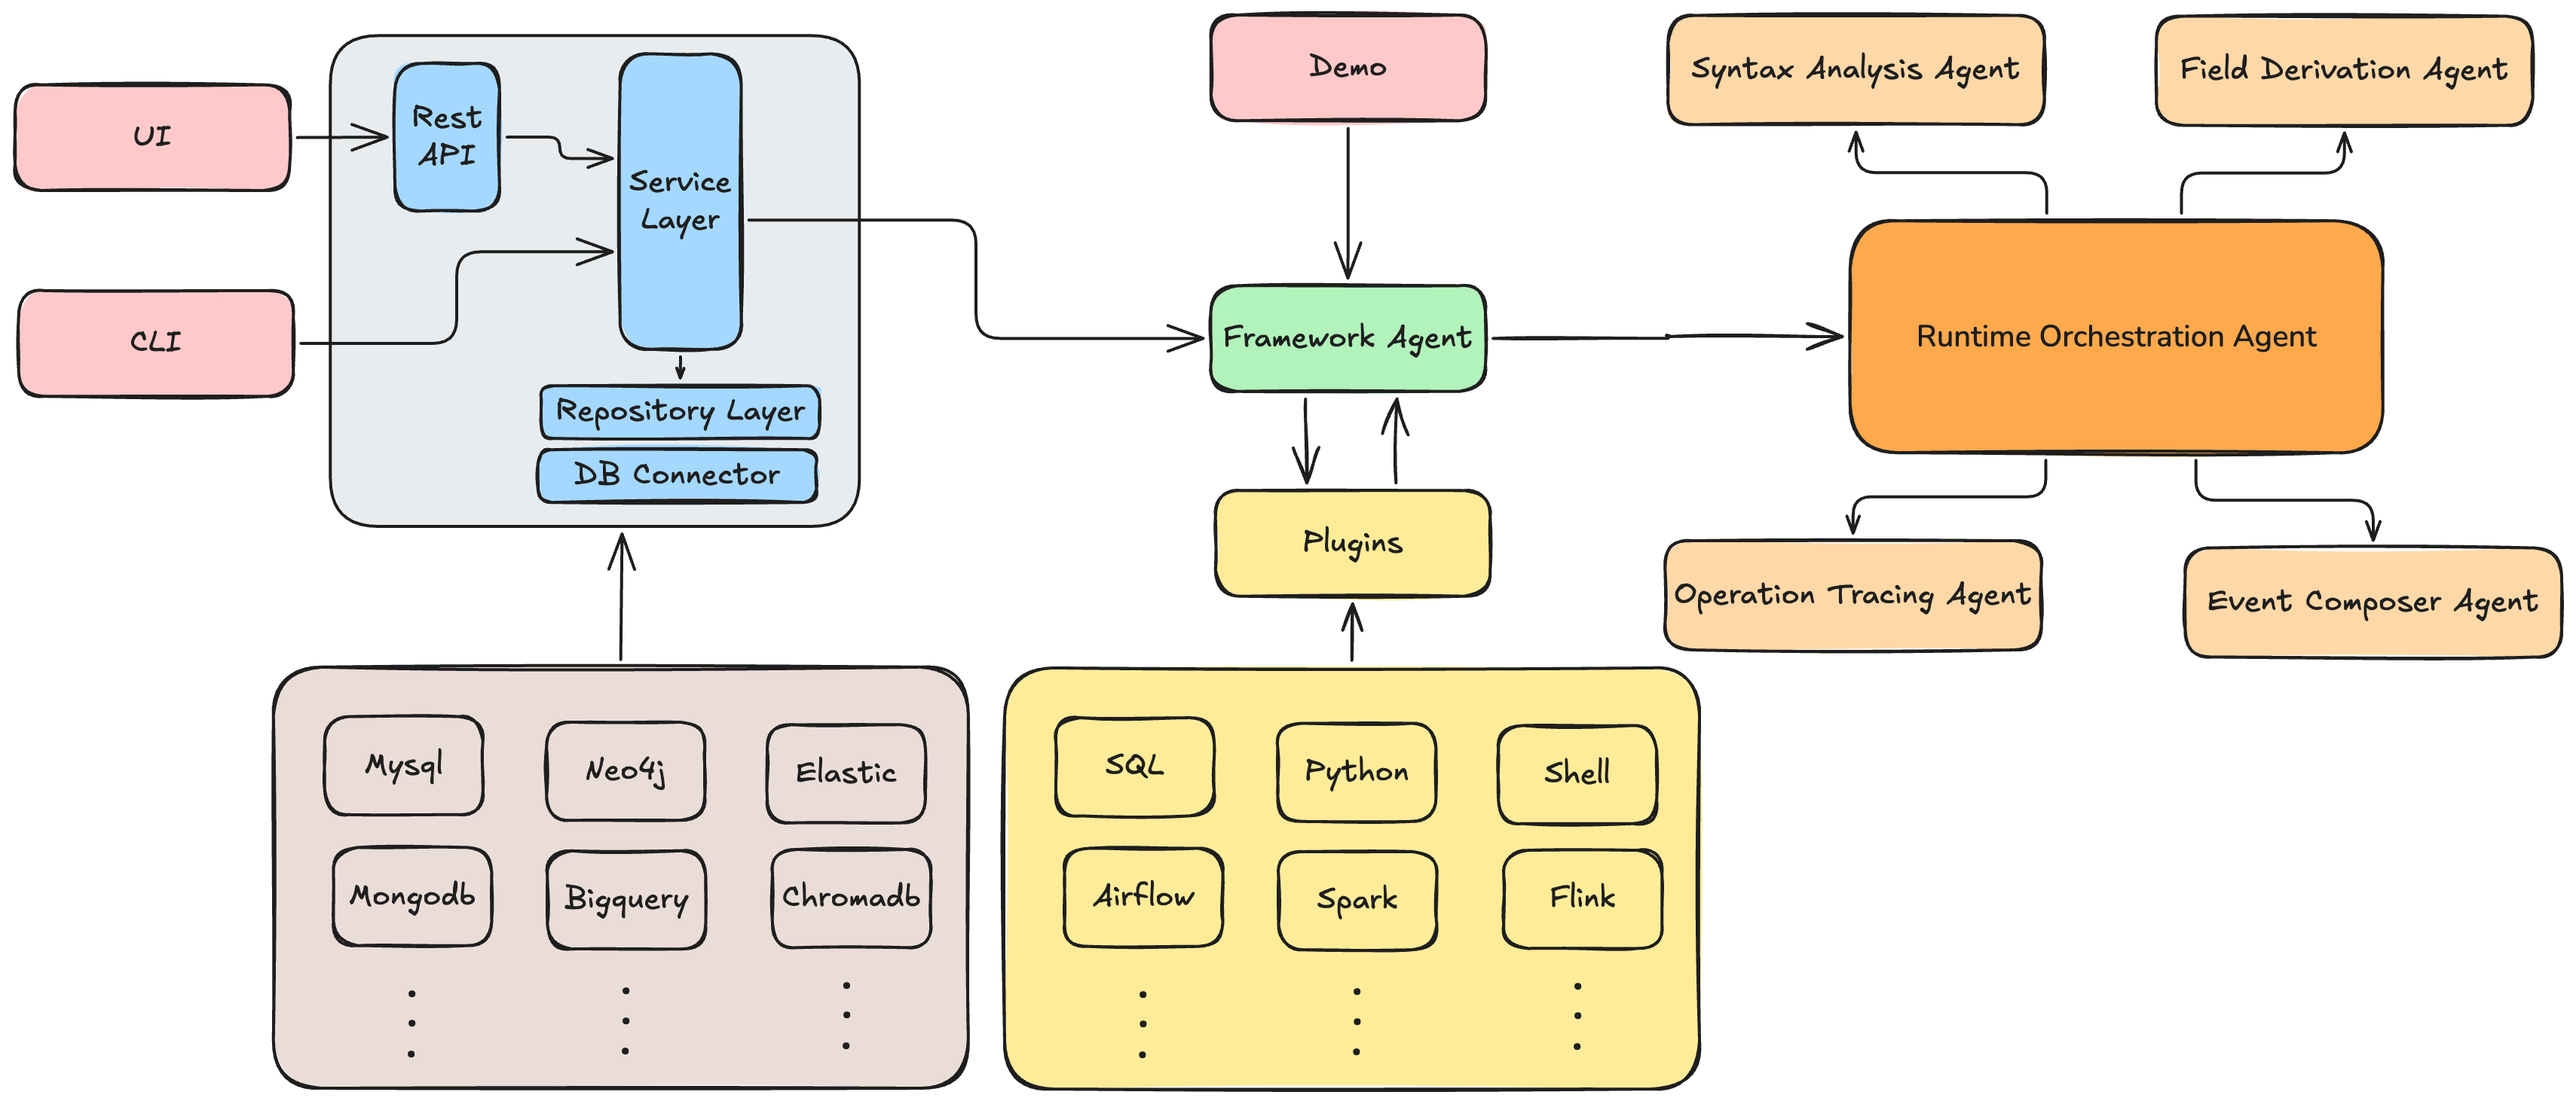
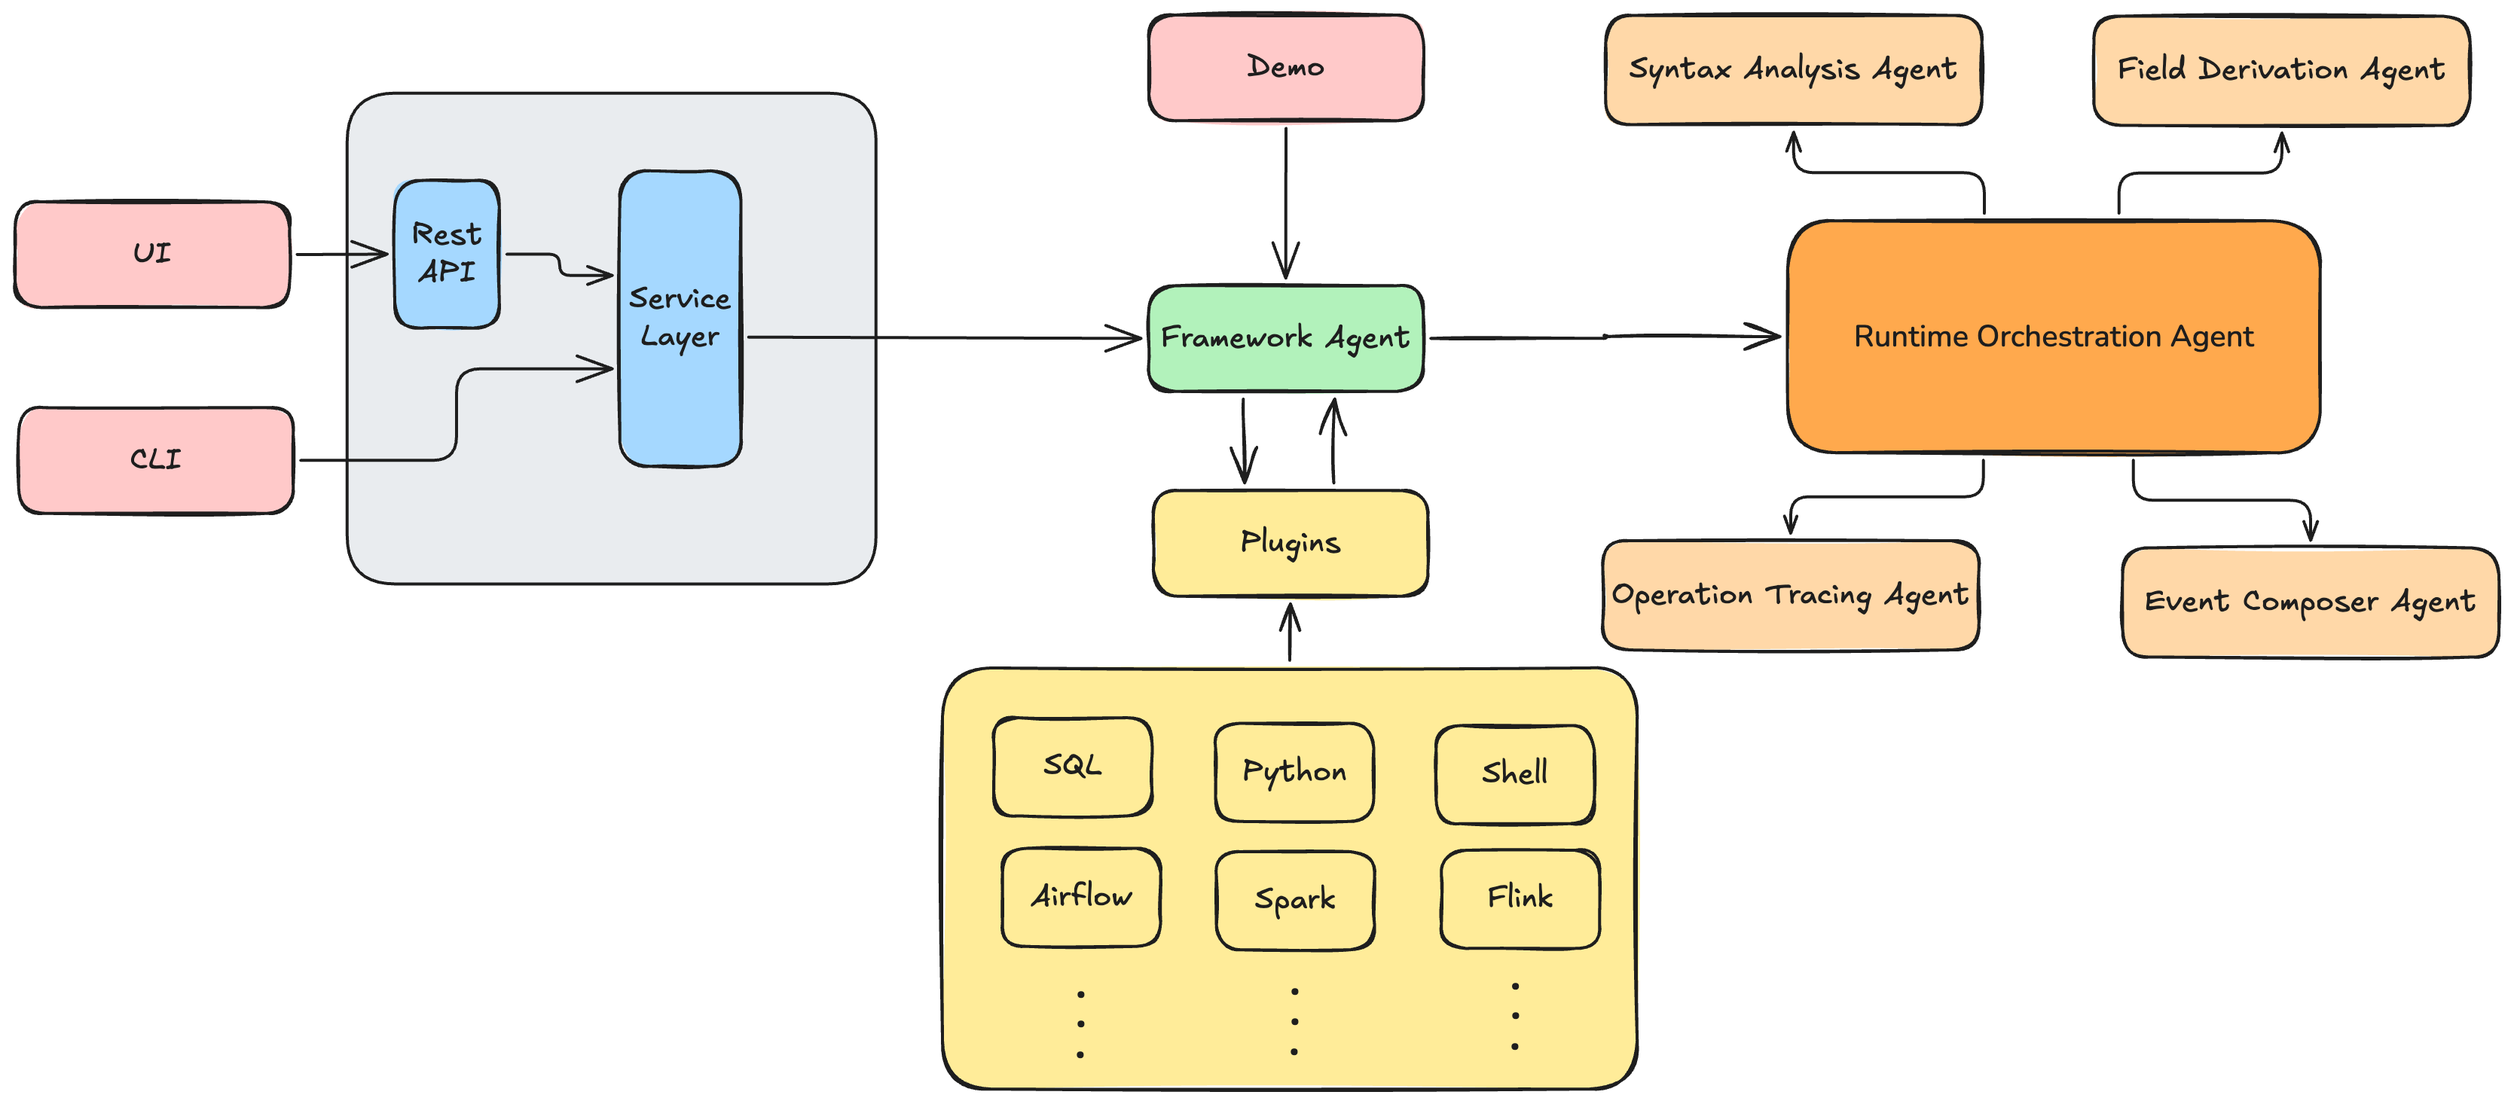
README change

diff --git a/cli/README.md b/cli/README.md
@@ -1,10 +1,10 @@
-# Lineagentic CLI
+# Lineagentic-flow CLI
 
-A command-line interface for the Lineagentic framework that provides agentic data lineage parsing across various data processing script types.
+A command-line interface for the Lineagentic-flow framework that provides agentic data lineage parsing across various data processing script types.
 
 ## Installation
 
-The CLI is automatically installed when you install the lineagentic package:
+The CLI is automatically installed when you install the lineagentic-flow package:
 
 ```bash
 pip install -e .
@@ -21,10 +21,6 @@ The CLI provides two main commands: `analyze` and `field-lineage`.
 lineagentic analyze --agent-name sql-lineage-agent --query "your code here"
 ```
 
-#### Get Field Lineage
-```bash
-lineagentic field-lineage --field-name "user_id" --dataset-name "users" --namespace "default"
-```
 
 ### Running Analysis
 
@@ -56,7 +52,7 @@ lineagentic analyze --agent-name sql --query "your code" --pretty
 ```
 
 #### Save Results to File
-```bash
+```bash 
 lineagentic analyze --agent-name sql --query "your code" --output results.json
 ```
 
@@ -64,7 +60,7 @@ lineagentic analyze --agent-name sql --query "your code" --output results.json
 ```bash
 lineagentic analyze --agent-name python --query "your code" --output results.json --pretty
 ```
-
+ 
 #### Enable Verbose Output
 ```bash
 lineagentic analyze --agent-name sql --query "your code" --verbose
@@ -87,49 +83,6 @@ Analyzes a query or code for lineage information.
 #### Required Arguments
 - Either `--query` or `--query-file` must be specified
 
-#### Optional Arguments
-- `--agent-name`: Name of the agent to use (default: sql-lineage-agent)
-- `--model-name`: Model to use for the agents (default: gpt-4o-mini)
-- `--no-save`: Don't save results to database
-- `--no-neo4j`: Don't save lineage data to Neo4j
-
-#### Lineage Configuration Arguments
-- `--event-type`: Type of event (default: START)
-- `--event-time`: ISO timestamp for the event (default: current UTC time)
-- `--run-id`: Unique run identifier (default: auto-generated UUID)
-- `--job-namespace`: Job namespace (required if lineage config is used)
-- `--job-name`: Job name (required if lineage config is used)
-- `--parent-run-id`: Parent run ID if this is a child run
-- `--parent-job-name`: Parent job name
-- `--parent-namespace`: Parent namespace
-- `--producer-url`: URL identifying the producer (default: https://github.com/give-your-url)
-- `--processing-type`: Processing type: BATCH or STREAM (default: BATCH)
-- `--integration`: Engine name (default: SQL)
-- `--job-type`: Type of job (default: QUERY)
-- `--language`: Programming language (default: SQL)
-- `--storage-layer`: Storage layer type (default: DATABASE)
-- `--file-format`: File format (default: TABLE)
-- `--owner-name`: Dataset owner name
-- `--owner-type`: Owner type (default: TEAM)
-- `--job-owner-name`: Job owner name
-- `--job-owner-type`: Job owner type (default: TEAM)
-- `--description`: Job description
-- `--env-var`: Environment variable (can be used multiple times: --env-var NAME VALUE)
-
-### `field-lineage` Command
-
-Gets lineage for a specific field in a dataset.
-
-#### Required Arguments
-- `--field-name`: Name of the field to trace lineage for
-- `--dataset-name`: Name of the dataset to trace lineage for
-
-#### Optional Arguments
-- `--namespace`: Optional namespace filter
-- `--max-hops`: Maximum number of hops to trace lineage for (default: 10)
-
-## Examples
-
 ### Basic Query Analysis
 ```bash
 # Simple SQL query analysis
@@ -151,44 +104,6 @@ lineagentic analyze --agent-name spark-lineage-agent --query "val df = spark.rea
 lineagentic analyze --agent-name airflow-lineage-agent --query "from airflow import DAG; from airflow.operators.python import PythonOperator; dag = DAG('my_dag')"
 ```
 
-### Advanced Analysis with Lineage Configuration
-```bash
-# With job namespace and name
-lineagentic analyze \
-  --agent-name sql-lineage-agent \
-  --query "SELECT user_id, name FROM users WHERE active = true" \
-  --job-namespace "my-company" \
-  --job-name "user-analysis-job" \
-  --description "Analyze active users" \
-  --owner-name "data-team" \
-  --owner-type "TEAM"
-
-# With full lineage configuration
-lineagentic analyze \
-  --agent-name sql-lineage-agent \
-  --query "SELECT a, b FROM table1 JOIN table2 ON table1.id = table2.id" \
-  --job-namespace "analytics" \
-  --job-name "data-join-job" \
-  --event-type "START" \
-  --run-id "run-12345" \
-  --parent-run-id "parent-run-123" \
-  --parent-job-name "parent-job" \
-  --parent-namespace "analytics" \
-  --producer-url "https://github.com/mycompany/data-pipeline" \
-  --processing-type "BATCH" \
-  --integration "SQL" \
-  --job-type "ETL" \
-  --language "SQL" \
-  --storage-layer "DATABASE" \
-  --file-format "TABLE" \
-  --owner-name "data-engineering" \
-  --owner-type "TEAM" \
-  --job-owner-name "john-doe" \
-  --job-owner-type "INDIVIDUAL" \
-  --description "Join user data with transaction data" \
-  --env-var "ENVIRONMENT" "production" \
-  --env-var "VERSION" "1.0.0"
-```
 
 ### Reading from File
 ```bash
@@ -217,102 +132,7 @@ lineagentic analyze --agent-name sql-lineage-agent --query "SELECT * FROM users"
 lineagentic analyze --agent-name sql-lineage-agent --query "SELECT * FROM users" --no-neo4j
 ```
 
-### Field Lineage
-```bash
-# Get field lineage
-lineagentic field-lineage --field-name "user_id" --dataset-name "users" --namespace "default"
 
-# Field lineage with custom max hops
-lineagentic field-lineage --field-name "user_id" --dataset-name "users" --namespace "default" --max-hops 5
-
-# Save field lineage to file
-lineagentic field-lineage --field-name "user_id" --dataset-name "users" --output "field_lineage.json" --pretty
-```
-
-### Complete Example Workflow
-```bash
-# 1. Analyze a SQL query with full lineage tracking
-lineagentic analyze \
-  --agent-name sql-lineage-agent \
-  --query "SELECT u.user_id, u.name, t.amount FROM users u JOIN transactions t ON u.user_id = t.user_id" \
-  --job-namespace "finance" \
-  --job-name "user-transaction-analysis" \
-  --description "Analyze user transaction patterns" \
-  --owner-name "finance-team" \
-  --output "analysis_results.json" \
-  --pretty
-
-# 2. Get lineage for a specific field
-lineagentic field-lineage \
-  --field-name "user_id" \
-  --dataset-name "users" \
-  --namespace "finance" \
-  --output "field_lineage.json" \
-  --pretty
-```
-
-### SQL Analysis
-```bash
-lineagentic analyze --agent-name sql-lineage-agent --query "
-SELECT 
-    customer_id,
-    SUM(amount) as total_amount
-FROM sales 
-WHERE date >= '2025-01-01'
-GROUP BY customer_id
-" --pretty
-```
-
-### Airflow DAG Analysis
-```bash
-lineagentic analyze --agent-name airflow-lineage-agent --query "
-from airflow import DAG
-from airflow.operators.python import PythonOperator
-
-def process_data():
-    # Your data processing logic here
-    pass
-
-with DAG('my_dag', start_date=datetime(2025, 1, 1)) as dag:
-    task = PythonOperator(task_id='process', python_callable=process_data)
-" --pretty
-```
-
-### Python Script Analysis
-```bash
-lineagentic analyze --agent-name python-lineage-agent --query "
-import pandas as pd
-
-def transform_data():
-    df = pd.read_csv('input.csv')
-    df['processed'] = df['value'] * 2
-    df.to_csv('output.csv', index=False)
-" --pretty
-```
-
-### Analysis with Lineage Configuration
-```bash
-lineagentic analyze \
-  --agent-name sql-lineage-agent \
-  --query "SELECT user_id, name FROM users WHERE active = true" \
-  --job-namespace "analytics" \
-  --job-name "active-users-query" \
-  --description "Query to get active users" \
-  --owner-name "Data Team" \
-  --env-var "ENVIRONMENT" "production" \
-  --env-var "REGION" "us-west-2" \
-  --pretty
-```
-
-### Field Lineage Query
-```bash
-lineagentic field-lineage \
-  --field-name "user_id" \
-  --dataset-name "users" \
-  --namespace "default" \
-  --max-hops 5 \
-  --pretty
-```
 
 ## Common Output Options
 

diff --git a/README.md b/README.md
@@ -1,21 +1,25 @@
 
 <div align="center">
-  <img src="images/logo.svg" alt="Lineagentic Logo" width="880" height="300">
+  <img src="images/logo.jpg" alt="Lineagentic Logo" width="880" height="300">
 </div>
 
 ## Lineagentic-flow
 
-Lineagentic-flow is an agentic ai solution for building end-to-end data lineage across diverse types of data processing scripts across different platforms. It is designed to be modular and customizable, and can be extended to support new data processing script types.
+Lineagentic-flow is an agentic ai solution for building end-to-end data lineage across diverse types of data processing scripts across different platforms. It is designed to be modular and customizable, and can be extended to support new data processing script types. In a nutshell this is what it does:
+
+```
+┌─────────────┐    ┌─────────────┐    ┌───────────────────────────────┐    ┌─────────────┐
+│ source-code │───▶│  rest api   │───▶│   lineagentic-flow-algorithm  │───▶│  lineage    │
+│             │    │             │    │                               │    │             │
+└─────────────┘    └─────────────┘    └───────────────────────────────┘    └─────────────┘
+```
 
 ### Features
 
 - Plugin based architecture, simple to extend and customize.
-- Interactive web based lineage visualizer engine.
 - Command line interface for quick analysis.
 - Rest API for integration with other systems.
-- Support for multiple data processing script types (SQL, Python, Airflow, etc.)
-- Support Neo4j and generic graph data model for lineage data storage.
-- Support Mysql for operation tracing.
+- Support for multiple data processing script types (SQL, Python, Airflow Spark, etc.)
 
 
 ## Agent Status Table
@@ -39,14 +43,9 @@ Following table shows the current development agents in Lineagentic-flow algorit
 
 ### What are the components of Lineagentic-flow?
 
-- Algorithm module: This is the brain of the Lineagentic. It contains agents, which are implemented as plugins and acting as chain of thought process to extract lineage from different types of data processing scripts. The module is built using a plugin-based design pattern, allowing you to easily develop and integrate your own custom agents. Once added to the algorithm module, all other components of the platform will be available to support your agents
+- Algorithm module: This is the brain of the Lineagentic-flow. It contains agents, which are implemented as plugins and acting as chain of thought process to extract lineage from different types of data processing scripts. The module is built using a plugin-based design pattern, allowing you to easily develop and integrate your own custom agents. Once added to the algorithm module, all other components of the platform will be available to support your agents
 
 - Backend module: This module provides a REST API interface around the Algorithm Module. It contains generic graph model with can be extended to support new data models. It exposes several REST endpoints, each tailored to specific tasks. Depending on the job requested, different agents within the Algorithm Module are activated accordingly.  Also through GET APIs you can get the lineage data from the graph model. The backend module also contains a mysql database for operation tracing.
-
-- Lineage visualizer module:  This module provides a web-based interface for visualizing lineage data generated by various agents. Depend on your use-case:
-      1- You can use this module as main visualizer engine which is based on JSONCrack.
-      2- You can use this module as a playground to test and visualize your agents.
-      3- or you can read data from Neo4j graph model to visualize there or you can use your own visualization engine. 
 
 - CLI module: is for command line around algorithm API and connect to unified service layer
 
@@ -90,11 +89,8 @@ lineagentic analyze --agent-name sql-lineage-agent --query "SELECT user_id, name
 # Analyze with lineage configuration
 lineagentic analyze --agent-name python-lineage-agent --query-file "my_script.py"
 
-# Get field lineage
 ```
-
-For more CLI options and detailed documentation, see the [CLI documentation](cli/README.md).
-
+for more details see [CLI documentation](cli/README.md).
 
 ### environment variables
 
@@ -103,14 +99,10 @@ For more CLI options and detailed documentation, see the [CLI documentation](cli
 
 ### Architecture
 
-The following figure illustrates the architecture behind the Lineagentic-flow, which is essentially a multi-layer architecture front-end, backend and agentic AI algorithm that leverages a chain-of-thought process to construct lineage across various script types.
+The following figure illustrates the architecture behind the Lineagentic-flow, which is essentially a multi-layer architecture of backend and agentic AI algorithm that leverages a chain-of-thought process to construct lineage across various script types.
 
 ![Architecture Diagram](images/architecture.png)
 
-## Graph data model
-Lineagentic-flow uses a graph data model to store lineage data. using graph data model  will help a lot for visulization and querying. Also can be simply extended to support new data models requirements.
-
-![Graph data model](images/model.png)
 
 ### Mathematic behind algorithm 
 
